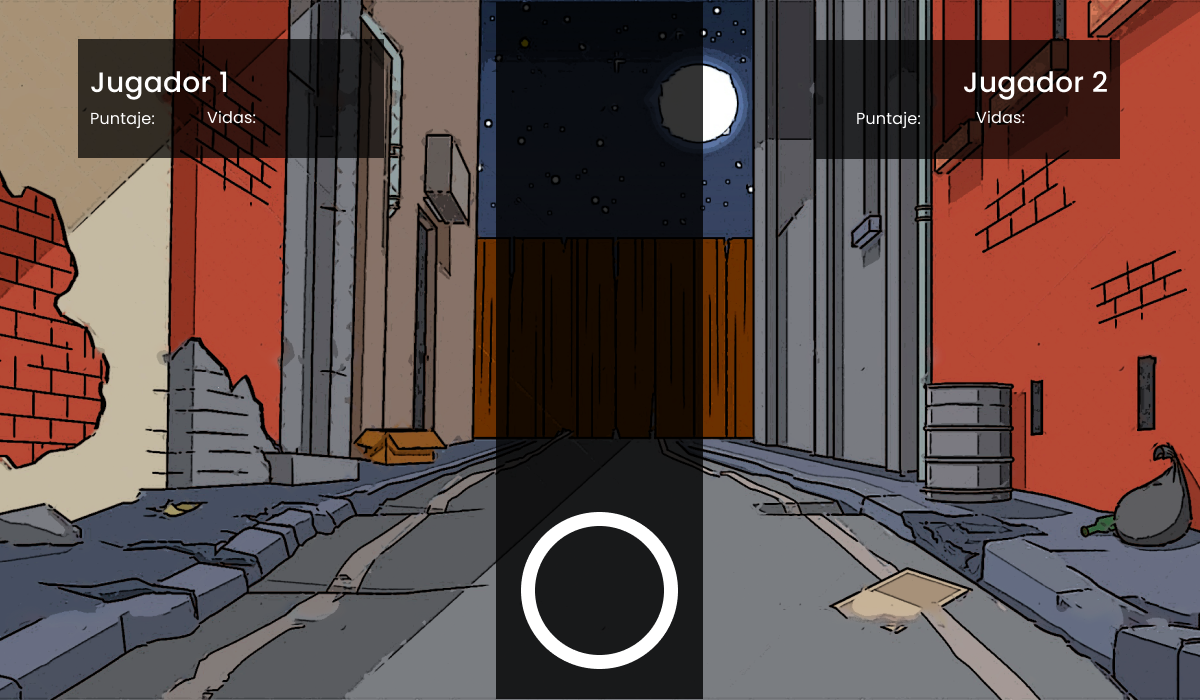
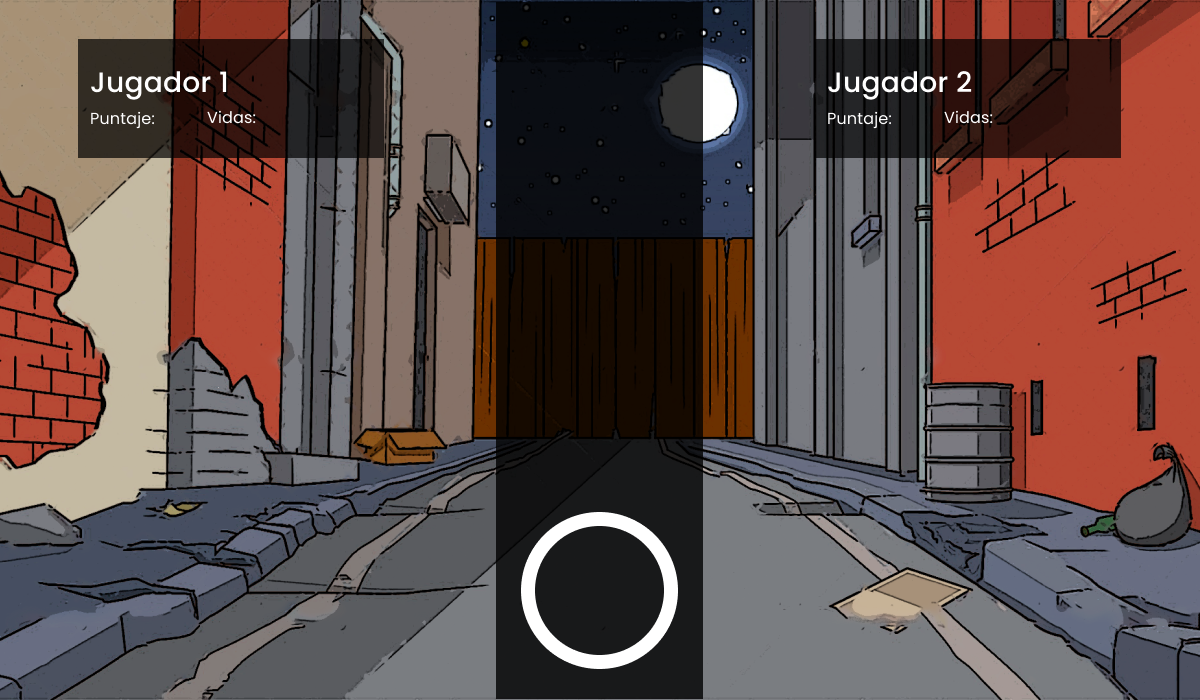
Se pierden vidas
funciona raro

Changed region(s): [[0.6783, 0.09, 0.925, 0.18]]

diff --git a/src/view/CuyMain.java b/src/view/CuyMain.java
@@ -1,5 +1,6 @@
 package view;
 
+import java.util.ArrayList;
 import java.util.Timer;
 import java.util.TimerTask;
 
@@ -18,12 +19,15 @@ public class CuyMain extends PApplet {
 	Screen connect, game, start, instruct, winp1, winp2;
 	boolean p1HasConnect, p2HasConnect, p1HasWon, p2HasWon;
 	SoundFile song;
-	PImage conectado1, conectado2, esperarConex1, esperarConex2, aBailar;
+	PImage conectado1, conectado2, esperarConex1, esperarConex2, aBailar,vida;
 	PImage btnPlay, btnExit, btnContinue, btnDance, btnPlayAgain, btnBackMenu;
 	Cuy p1, p2;
 	Flecha[] flechitas;
-	Timer timer;
-	TimerTask task;
+	ArrayList<Integer> vidasP1;
+	ArrayList<Integer> vidasP2;
+	Timer timerF;
+	Timer timerL;
+	TimerTask task,task2;
 	
 	private String direc;
 
@@ -59,13 +63,15 @@ public class CuyMain extends PApplet {
 		esperarConex1 = loadImage("res/img/EsperarConex1.png");
 		esperarConex2 = loadImage("res/img/EsperarConex2.png");
 		aBailar = loadImage("res/img/ABailar.png");
+		vida = loadImage("res/img/Vida.png");
 		p1HasConnect = false;
 		p2HasConnect = false;
 		p1HasWon = false;
 		p2HasWon = false;
 		p1 = new Cuy(1, this);
 		p2 = new Cuy(2, this);
-		timer = new Timer();
+		timerF = new Timer();
+		timerL = new Timer();
 
 		// BOTONES
 		btnPlay = loadImage("res/img/BtnPlay.png");
@@ -76,9 +82,18 @@ public class CuyMain extends PApplet {
 		btnBackMenu = loadImage("res/img/BtnBackMenu.png");
 
 		flechitas = new Flecha[26];
+		
+		vidasP1 = new ArrayList<Integer>();
+		vidasP1.add(1);
+		vidasP1.add(1);
+		vidasP1.add(1);
+		vidasP2 = new ArrayList<Integer>();
+		vidasP2.add(1);
+		vidasP2.add(1);
+		vidasP2.add(1);
 		createArrows();
 		moveSetup();
-
+		lifeSetup();
 		direc = " ";
 		
 		// MULTICLIENTE
@@ -95,11 +110,21 @@ public class CuyMain extends PApplet {
 		p1 = new Cuy(1, this);
 		p2 = new Cuy(2, this);
 		flechitas = new Flecha[26];
-		timer = new Timer();
+		vidasP1 = new ArrayList<Integer>();
+		vidasP1.add(1);
+		vidasP1.add(1);
+		vidasP1.add(1);
+		vidasP2 = new ArrayList<Integer>();
+		vidasP2.add(1);
+		vidasP2.add(1);
+		vidasP2.add(1);
+		timerF = new Timer();
+		timerL = new Timer();
 		createArrows();
 		moveSetup();
+		lifeSetup();
 		song.play();
-		timer.scheduleAtFixedRate(task, 337,2400);
+		timerF.scheduleAtFixedRate(task, 337,2400);
 	}
 
 	public void createArrows() {
@@ -128,6 +153,18 @@ public class CuyMain extends PApplet {
 			flechitas[i].draw();
 		}
 	}
+	public void drawLives() {
+		for (int i = 0; i < vidasP1.size(); i++) {
+			if(vidasP1.get(i)!=0){
+			image(vida,260+(40*i),105);
+			}
+		}
+		for (int i = 0; i < vidasP2.size(); i++) {
+			if(vidasP2.get(i)!=0){
+			image(vida,995+(40*i),105);
+			}
+		}
+	}
 
 	public void moveSetup() {
 		task = new TimerTask() {
@@ -135,6 +172,10 @@ public class CuyMain extends PApplet {
 
 				flechitas[flechaActual].setMov(true);
 				flechaActual++;
+				if(flechaActual==1) {
+					System.out.println("ya");
+					timerL.scheduleAtFixedRate(task2, 2299, 2400);
+				}
 				if (flechaActual == 26) {
 					gameover();
 				}
@@ -142,6 +183,19 @@ public class CuyMain extends PApplet {
 			}
 		};
 	}
+	public void lifeSetup() {
+		task2 = new TimerTask() {
+			public void run() {
+				System.out.println(flechitas[flechaActual-1].getPosY());
+				if(flechitas[flechaActual-1].isP1Scored()==false&&flechitas[flechaActual-1].getPosY()>=630) {
+					vidasP1.remove(vidasP1.size()-1);
+					}
+					if(flechitas[flechaActual-1].isP2Scored()==false&&flechitas[flechaActual-1].getPosY()>=630) {
+						vidasP2.remove(vidasP2.size()-1);
+						}	
+			}
+	};
+}
 
 	public void moveArrows() {
 		for (int i = 0; i < flechitas.length; i++) {
@@ -188,11 +242,16 @@ public class CuyMain extends PApplet {
 			p1.draw();
 			p2.draw();
 			drawArrows();
+			drawLives();
 			moveArrows();
+			//loseLives();
+			winByLives();
 			textSize(16);
 			fill(255);
+		//*/*/*/*/*/*Pintar puntajes
 			text(puntaje1,158,124);
-			text(puntaje2,924,124);
+			text(puntaje2,894,124);
+		//*/*/*/*/*/*/*/*/*/*/*/*/*/*/*
 			break;
 		case 4:
 			if (p1HasWon) {
@@ -204,8 +263,39 @@ public class CuyMain extends PApplet {
 		}
 
 	}
+	public void loseLives(){
+	try {
+		flechitas[flechaActual-1].getType();
+	} catch (ArrayIndexOutOfBoundsException e) {
+		return;
+	}
+			if(flechitas[flechaActual-1].isP1Scored()==false&&flechitas[flechaActual-1].getPosY()>=630) {
+			vidasP1.remove(vidasP1.size()-1);
+			}
+			if(flechitas[flechaActual-1].isP2Scored()==false&&flechitas[flechaActual-1].getPosY()>=630) {
+				vidasP2.remove(vidasP2.size()-1);
+				}
+	}
+	public void winByLives() {
+		
+		if(vidasP1.size()==0) {
+			timerF.cancel();
+			timerL.cancel();
+			song.stop();
+			p2HasWon=true;
+			pantalla=4;
+		}else if(vidasP2.size()==0) {
+			timerF.cancel();
+			timerL.cancel();
+			song.stop();
+			p1HasWon=true;
+			pantalla=4;
+		}
+		
+	}
 public void gameover() {
-	timer.cancel();
+	timerF.cancel();
+	timerL.cancel();
 	
 	if(puntaje1>puntaje2) {
 		p1HasWon=true;
@@ -264,7 +354,8 @@ public void gameover() {
 				pantalla = 3;
 				song.play();
 
-				timer.scheduleAtFixedRate(task, 337, 2400);
+				timerF.scheduleAtFixedRate(task, 337, 2400);
+	
 			}
 			// DE INICIO A SALIR
 			if ((463 < mouseX && mouseX < 730) && (523 < mouseY && mouseY < 625)) {
@@ -360,7 +451,59 @@ public void score() {
 				}
 	
 				
-
+				//*/*/*/*/*/*/*/*/*JUGADOR 2*/*/*/*/*/*/*/*/*/
+				
+				//+*+*+*+*+*FLECHA ARRIBA+*+*+*+*+*+*+*+*+*+*
+				//***PRIMERO, COMPRUEBA QUE LA FLECHA ACTUAL Y LA DIRECCION DE INPUT DEL JUGADOR SEA LA MISMA
+				if(flechitas[flechaActual-1].getType()==1&&p2.getAzulDir()==87) {
+				//***DESPUES, COMPUREBA QUE LA FLECHA SE ENCUENTRE ACTUALMENTE DENTRO DEL CIRCULO
+					if(flechitas[flechaActual-1].getPosY()>518&&flechitas[flechaActual-1].getPosY()<630) {
+				//***POR ULTIMO, VERIFICA QUE NO SE HAYAN MARCADO PUNTOS YA POR ESA MISMA FLECHA
+					if(flechitas[flechaActual-1].isP2Scored()==false) {
+						puntaje2+=100;
+						flechitas[flechaActual-1].setP2Scored(true);
+					}
+					}
+				}
+				
+				//+*+*+*+*+*FLECHA IZQUIERDA+*+*+*+*+*+*+*+*+*+*
+				//***PRIMERO, COMPRUEBA QUE LA FLECHA ACTUAL Y LA DIRECCION DE INPUT DEL JUGADOR SEA LA MISMA
+					if(flechitas[flechaActual-1].getType()==3&&p2.getAzulDir()==65) {
+					//***DESPUES, COMPUREBA QUE LA FLECHA SE ENCUENTRE ACTUALMENTE DENTRO DEL CIRCULO
+						if(flechitas[flechaActual-1].getPosY()>518&&flechitas[flechaActual-1].getPosY()<630) {
+					//***POR ULTIMO, VERIFICA QUE NO SE HAYAN MARCADO PUNTOS YA POR ESA MISMA FLECHA
+						if(flechitas[flechaActual-1].isP2Scored()==false) {
+							puntaje2+=100;
+							flechitas[flechaActual-1].setP2Scored(true);
+						}
+						}
+					}
+					
+					//+*+*+*+*+*FLECHA DERECHA+*+*+*+*+*+*+*+*+*+*
+					//***PRIMERO, COMPRUEBA QUE LA FLECHA ACTUAL Y LA DIRazulECCION DE INPUT DEL JUGADOR SEA LA MISMA
+						if(flechitas[flechaActual-1].getType()==4&&p2.getRojoDir()==68) {
+						//***DESPUES, COMPUREBA QUE LA FLECHA SE ENCUENTRE ACTUALMENTE DENTRO DEL CIRCULO
+							if(flechitas[flechaActual-1].getPosY()>518&&flechitas[flechaActual-1].getPosY()<630) {
+						//***POR ULTIMO, VERIFICA QUE NO SE HAYAN MARCADO PUNTOS YA POR ESA MISMA FLECHA
+							if(flechitas[flechaActual-1].isP2Scored()==false) {
+								puntaje2+=100;
+								flechitas[flechaActual-1].setP2Scored(true);
+							}
+							}
+						}
+					
+						//+*+*+*+*+*FLECHA ABAJO+*+*+*+*+*+*+*+*+*+*
+						//***PRIMERO, COMPRUEBA QUE LA FLECHA ACTUAL Y LA DIRECCION DE INPUT DEL JUGADOR SEA LA MISMA
+							if(flechitas[flechaActual-1].getType()==2&&p2.getAzulDir()==83) {
+							//***DESPUES, COMPUREBA QUE LA FLECHA SE ENCUENTRE ACTUALMENTE DENTRO DEL CIRCULO
+								if(flechitas[flechaActual-1].getPosY()>518&&flechitas[flechaActual-1].getPosY()<630) {
+							//***POR ULTIMO, VERIFICA QUE NO SE HAYAN MARCADO PUNTOS YA POR ESA MISMA FLECHA
+								if(flechitas[flechaActual-1].isP1Scored()==false) {
+									puntaje2+=100;
+									flechitas[flechaActual-1].setP1Scored(true);
+								}
+								}
+							}
 	
 	
 
